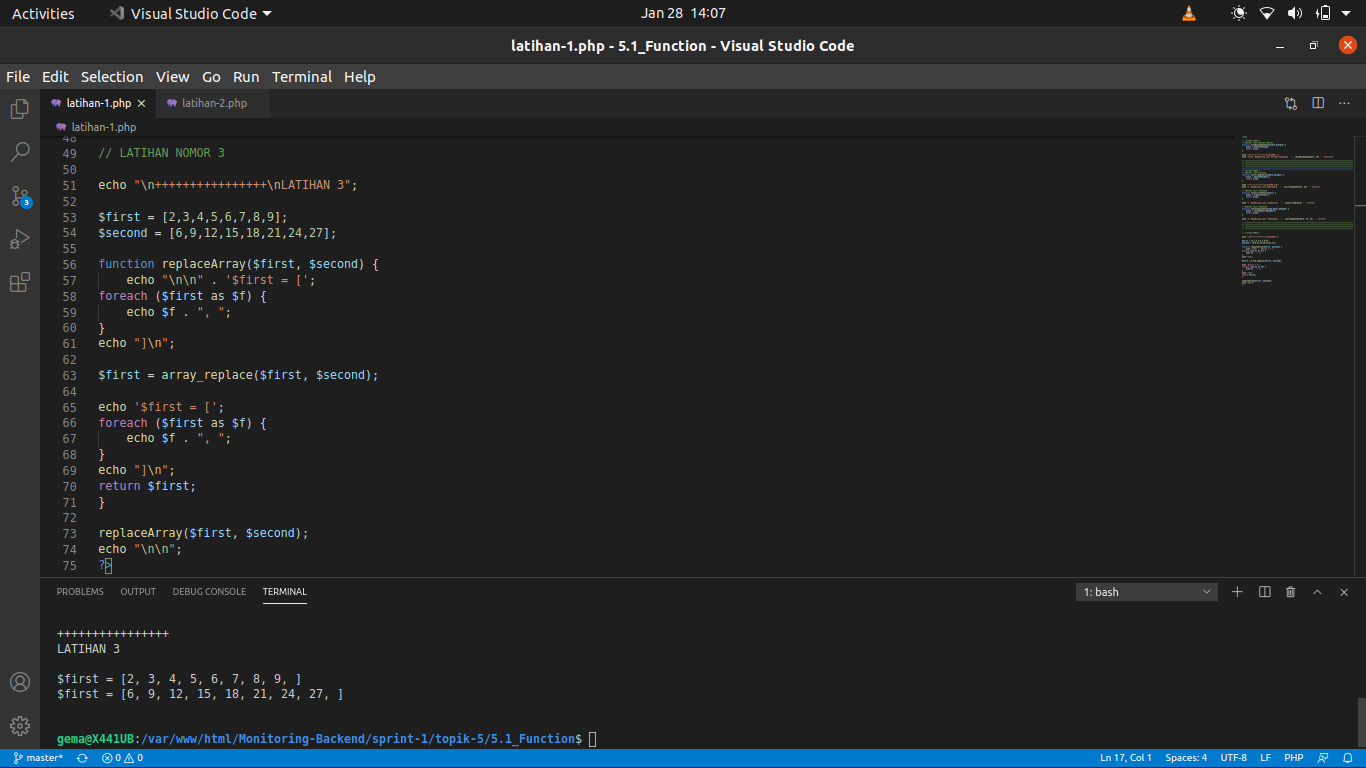
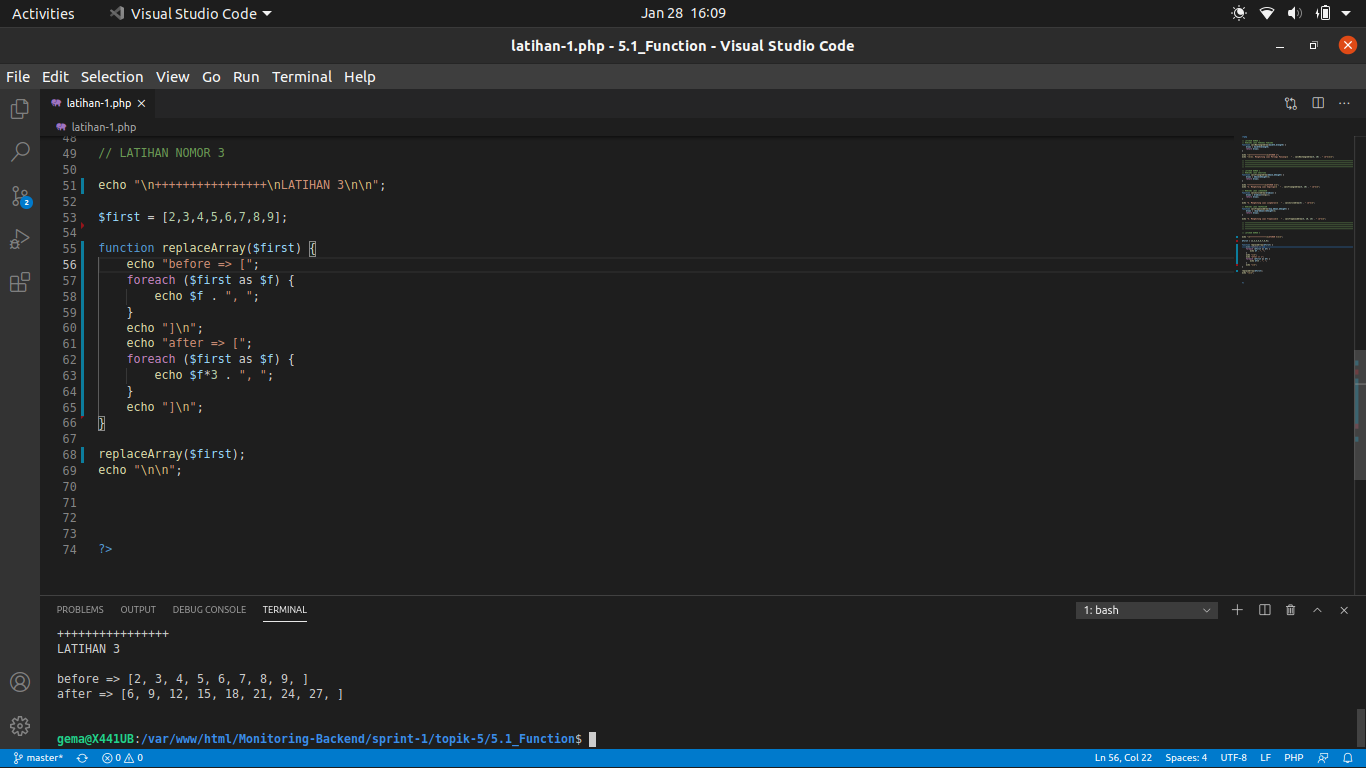
modifikasi 5.1ss3_latihan-1php

diff --git a/sprint-1/topik-5/5.1_Function/latihan-1.php b/sprint-1/topik-5/5.1_Function/latihan-1.php
@@ -48,29 +48,24 @@ echo "4. Menghitung Luas Trapesium\n   " . calcTrapezoidArea(5, 10, 15) . " cm^2
 
 // LATIHAN NOMOR 3
 
-echo "\n++++++++++++++++\nLATIHAN 3";
+echo "\n++++++++++++++++\nLATIHAN 3\n\n";
 
 $first = [2,3,4,5,6,7,8,9];
-$second = [6,9,12,15,18,21,24,27];
 
-function replaceArray($first, $second) {
-    echo "\n\n" . '$first = [';
-foreach ($first as $f) {
-    echo $f . ", ";
-}
-echo "]\n";
-
-$first = array_replace($first, $second);
-
-echo '$first = [';
-foreach ($first as $f) {
-    echo $f . ", ";
-}
-echo "]\n";
-return $first;
+function replaceArray($first) {
+    echo "before => [";
+    foreach ($first as $f) {
+        echo $f . ", ";
+    }
+    echo "]\n";
+    echo "after => [";
+    foreach ($first as $f) {
+        echo $f*3 . ", ";
+    }
+    echo "]\n";
 }
 
-replaceArray($first, $second);
+replaceArray($first);
 echo "\n\n";
 
 
